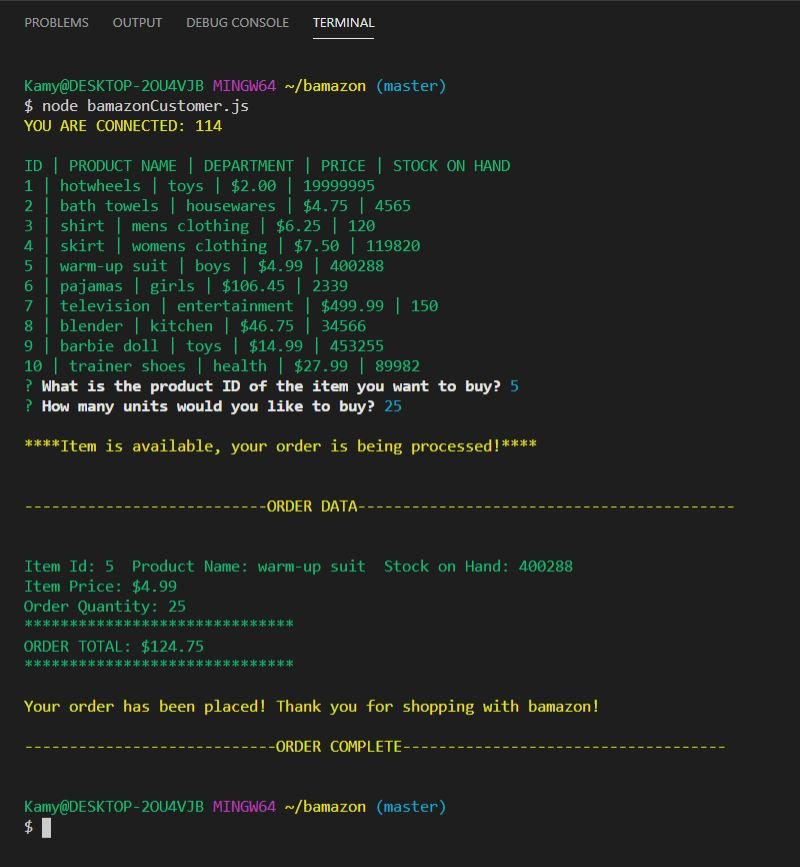
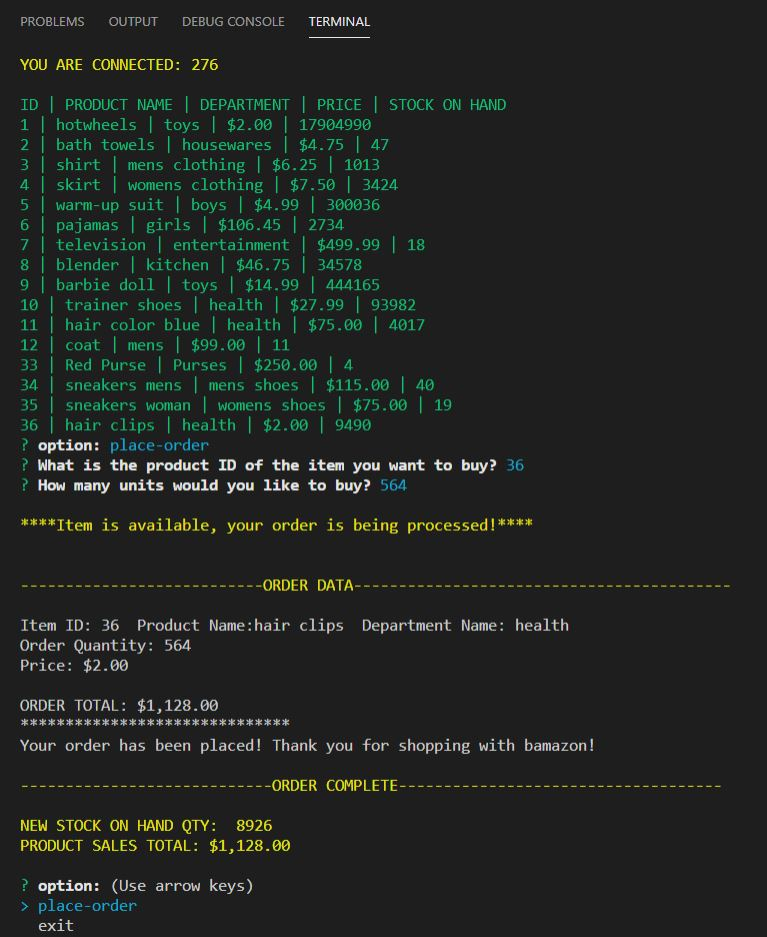
updates to screen shots

Changed region(s): [[0.03, 0.0623, 0.7797, 0.9965], [0.03, 0.0, 0.4798, 0.0623]]

diff --git a/bamazonCustomer.js b/bamazonCustomer.js
@@ -3,8 +3,7 @@ var inquirer = require("inquirer");
 require("dotenv").config();
 var mysql = require("mysql");
 var chalk = require("chalk");
-var table = require("markdown-table")
-//var table = require("text-table");
+var table = require("console.table")
 var formatter = new Intl.NumberFormat('en-US', {
   style: 'currency',
   currency: "USD",
@@ -36,12 +35,21 @@ function displayItemInventory() {
 
       if (err) throw err;
       for (var i = 0; i < res.length; i++) {
-        console.log(chalk.green(
-          res[i].item_id + " | "
-          + res[i].product_name + " | "
-          + res[i].department_name + " | "
-          + formatter.format(res[i].price) + " | "
-          + res[i].stock_quantity));
+         
+        const table = new table({ 
+          head: ["ID" , "PRODUCT NAME", "DEPARTMENT", " PRICE", "STOCK ON HAND"], colWidths: [10,15,15,10,10] 
+        }
+
+        table.push(res[i].item_id, res[i].product_name, res[i].department_name,formatter.format(res[i].price),res[i].stock_quantity)
+
+        console.log(table.toString());
+
+          console.log(chalk.green(
+            res[i].item_id + " | "
+            + res[i].product_name + " | "
+            + res[i].department_name + " | "
+            + formatter.format(res[i].price) + " | "
+            + res[i].stock_quantity));
       }
       promptOrderItem();
     });
@@ -143,14 +151,8 @@ function placeOrder() {
           +'\n' + 'Your order has been placed! Thank you for shopping with bamazon!'
         );
         console.log(chalk.yellow("\n----------------------------ORDER COMPLETE------------------------------------\n"));
-
-        // table = ([
-        //   ["DEPT ID","DEPARTMENT NAME","PRODUCT SALES"],
-        //   [res[i].item_id, res[i].product_name, res[i].department_name, formatter.format(res[i].price), res[i].stock_quantity]
-        //   ],{align: ['c', 'c', 'c', 'r','c']});
-        // console.log(table)
-        console.log(chalk.red('NEW STOCK ON HAND QTY:  ' + (orderData.stock_quantity - quantity)));
-        console.log(chalk.red('PRODUCT SALES TOTAL: ' + formatter.format(orderData.price * quantity) +"\n"));
+        console.log(chalk.yellow('NEW STOCK ON HAND QTY:  ' + (orderData.stock_quantity - quantity)));
+        console.log(chalk.yellow('PRODUCT SALES TOTAL: ' + formatter.format(orderData.price * quantity) +"\n"));
 
         promptOrderItem();
       }

diff --git a/bamazonManager.js b/bamazonManager.js
@@ -3,7 +3,7 @@ var inquirer = require("inquirer");
 require("dotenv").config();
 var mysql = require("mysql");
 var chalk = require("chalk");
-//var table = require("text-table");
+var table = require("cli-table2");
 var formatter = new Intl.NumberFormat('en-US', {
     style: 'currency',
     currency: "USD",
